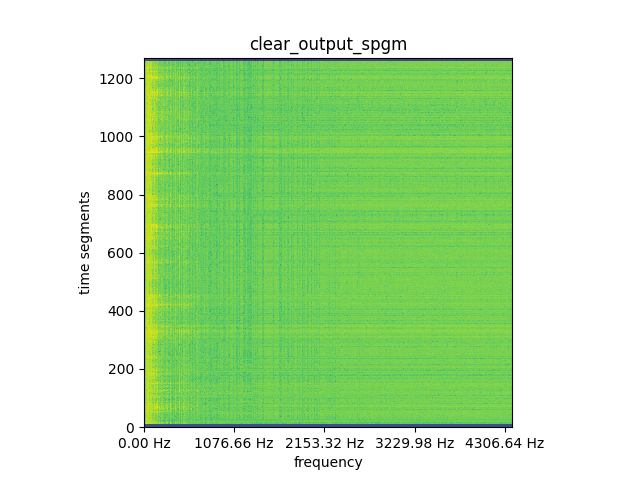
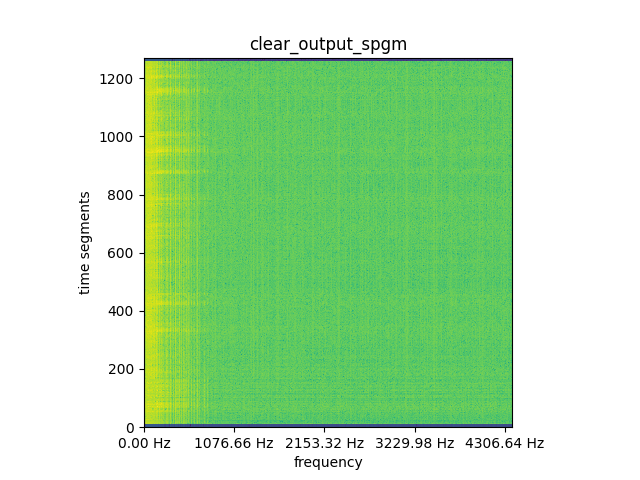
drnn no dim reduc in train

Changed region(s): [[0.2188, 0.125, 0.8125, 0.9062]]

diff --git a/brahms_restore_ml/drnn/model.py b/brahms_restore_ml/drnn/model.py
@@ -395,8 +395,11 @@ def make_model(features, sequences, name='Model', epsilon=10 ** (-10),
 
     # Use pre-configurations (default)
     else:
-        x = SimpleRNN(features, # features // 2, # TEMP - no dim reduc
+        x = SimpleRNN(
+                    features, # TEMP - no dim redu
+                    # features // 2,
                     activation='relu', 
+                    # use_bias=False, # TEMP - debug po-sen
                     return_sequences=True) (input_layer) 
         if use_bv:  # new
             x = SimpleRNN(features, 
@@ -404,11 +407,18 @@ def make_model(features, sequences, name='Model', epsilon=10 ** (-10),
                     return_sequences=True) (x)
             x = Concatenate(axis=-2) ([bv_input, x])    # TODO: bvs before or after music in time?
         else:
-            x = SimpleRNN(features, # features // 2, # TEMP - no dim reduc
+            x = SimpleRNN(
+                features, # TEMP - no dim reduc
+                # features // 2, 
                 activation='relu',
+                # use_bias=False, # TEMP - debug po-sen
                 return_sequences=True) (x)
-        piano_hat = TimeDistributed(Dense(features), name='piano_hat') (x)  # source 1 branch
-        noise_hat = TimeDistributed(Dense(features), name='noise_hat') (x)  # source 2 branch
+        piano_hat = TimeDistributed(Dense(features,
+                    # use_bias=False, # TEMP - debug po-sen
+                    ), name='piano_hat') (x)  # source 1 branch
+        noise_hat = TimeDistributed(Dense(features,
+                    # use_bias=False, # TEMP - debug po-sen
+                    ), name='noise_hat') (x)  # source 2 branch
     piano_pred = TimeFreqMasking(epsilon=epsilon, 
                                 name='piano_pred') ((piano_hat, noise_hat, input_layer))
     noise_pred = TimeFreqMasking(epsilon=epsilon, 

diff --git a/restore_with_drnn.py b/restore_with_drnn.py
@@ -178,7 +178,8 @@ def main():
     # Note: FROM PO-SEN PAPER - about loss_const
     #   Empirically, the value γ is in the range of 0.05∼0.2 in order
     #   to achieve SIR improvements and maintain SAR and SDR.
-    train_batch_size = 6 if pc_run else 12
+    # train_batch_size = 6 if pc_run else 12
+    train_batch_size = 3 if pc_run else 12  # TEMP - for no dimreduc
     train_loss_const = 0.1
     train_epochs = 10
     train_opt_name, train_opt_clipval, train_opt_lr = 'Adam', 0.9, 0.001
